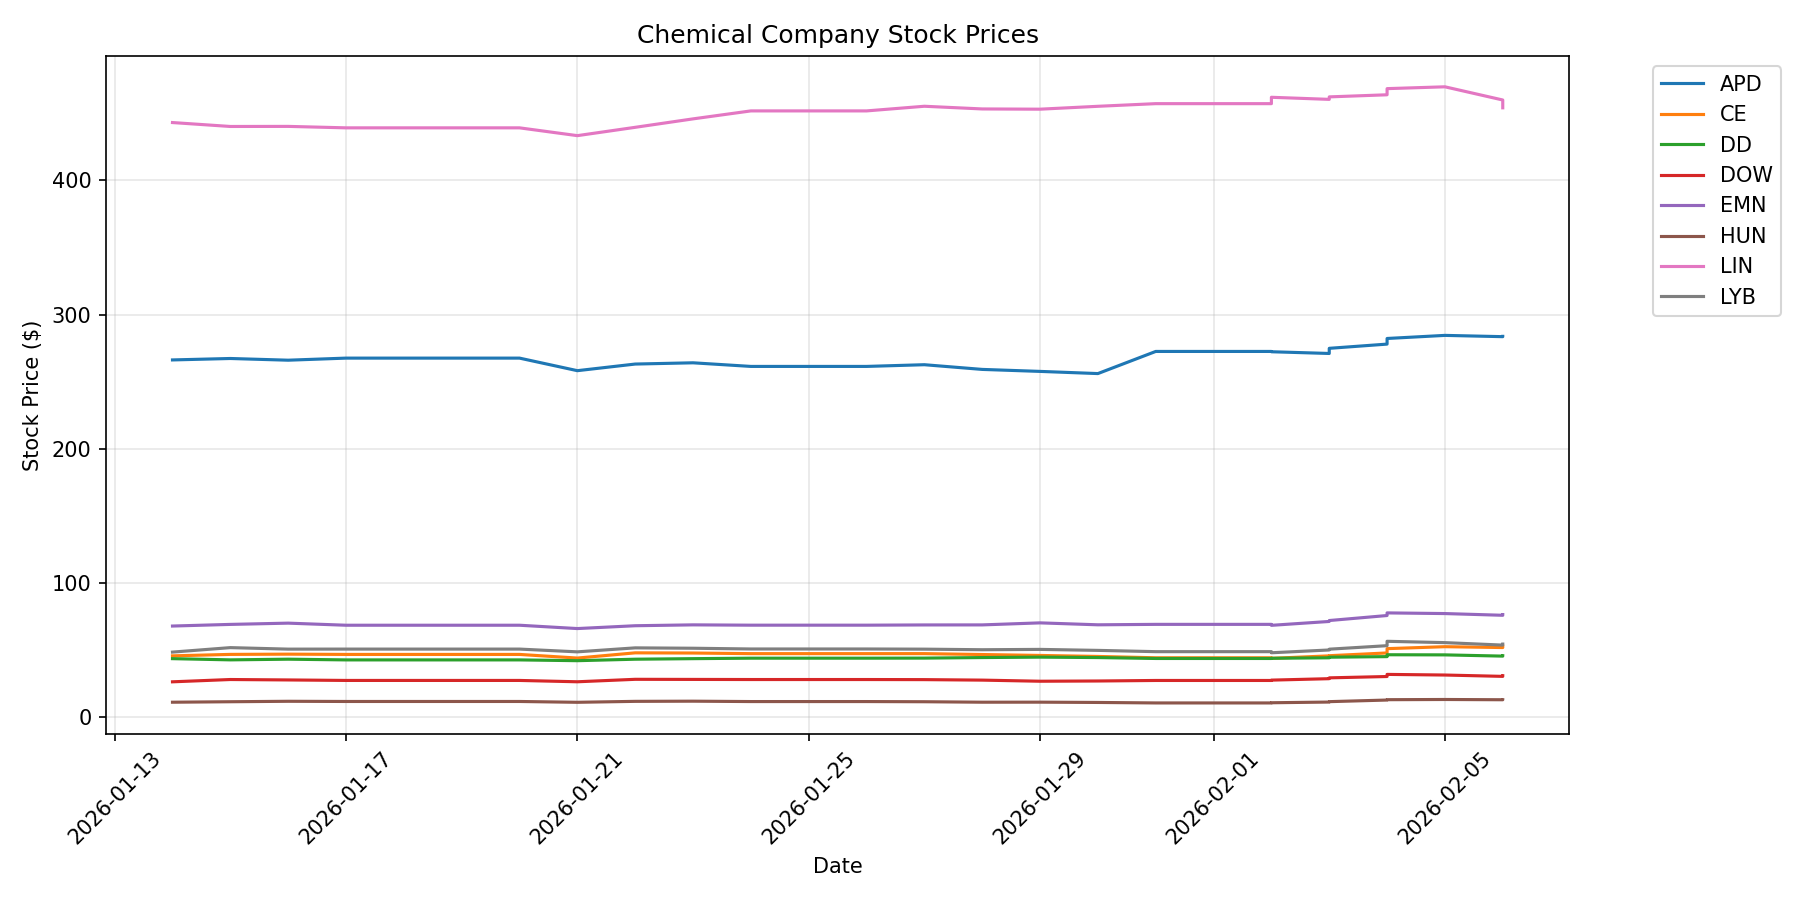
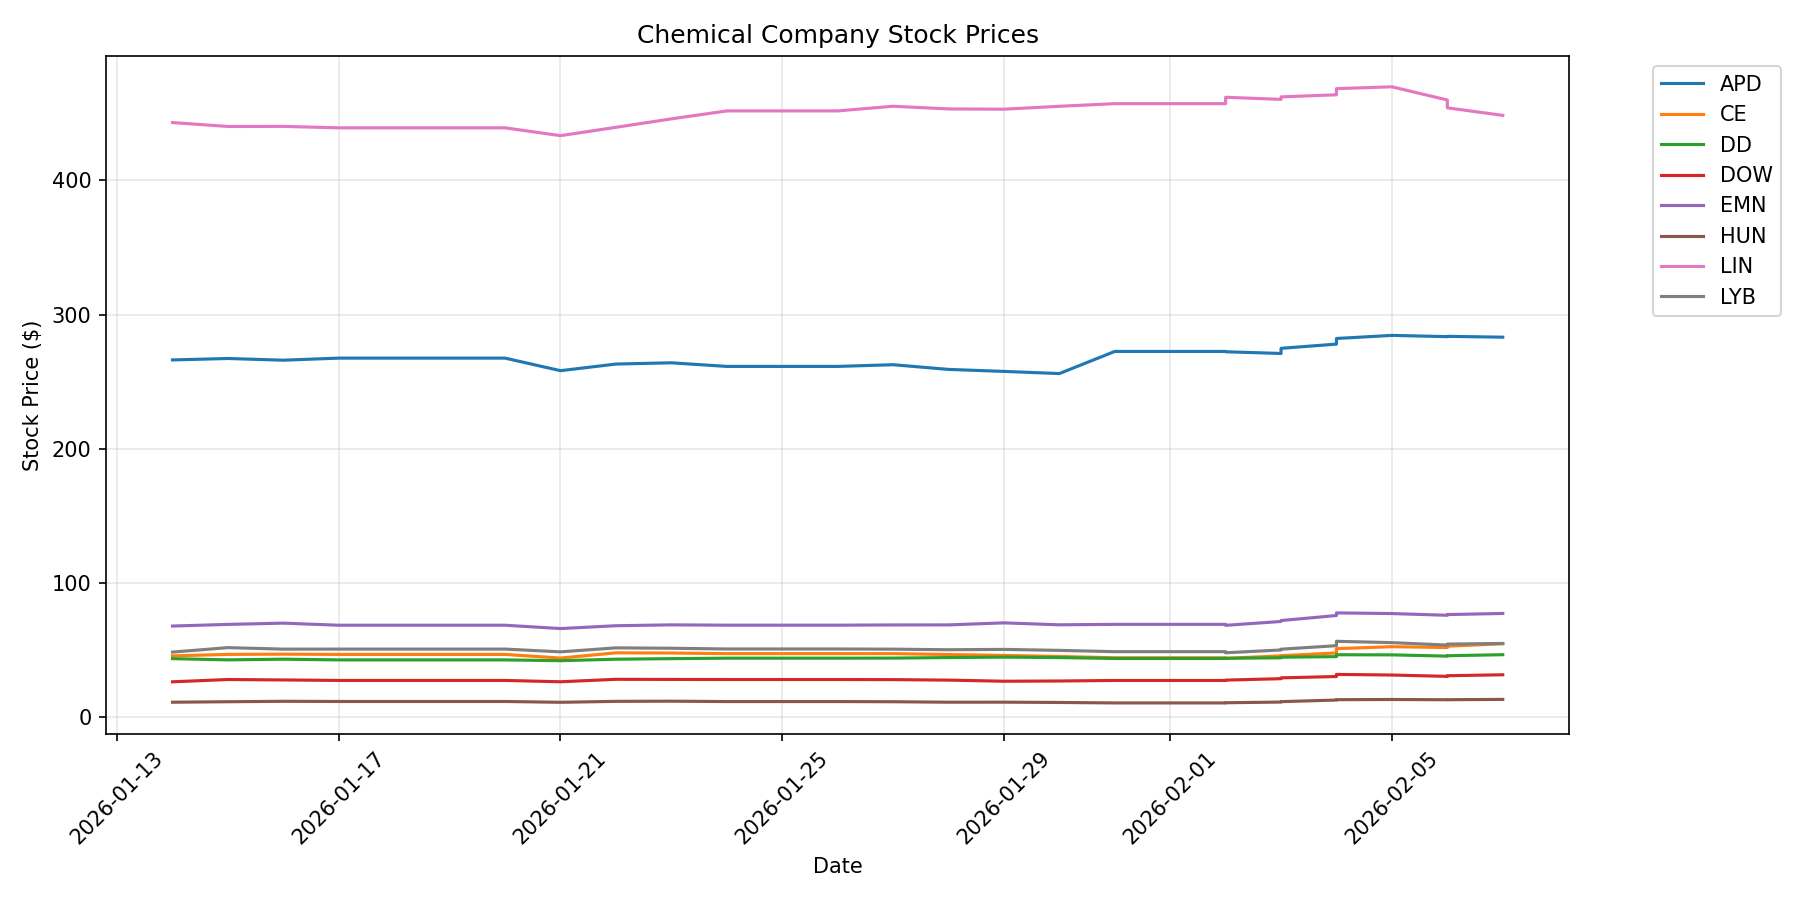
Daily price update: 2026-02-07

diff --git a/README.md b/README.md
@@ -2,29 +2,29 @@
 
 Automated daily tracking of chemical commodity prices and chemical company stocks.
 
-## Latest Prices (Updated: 2026-02-06)
+## Latest Prices (Updated: 2026-02-07)
 
 ### Energy Commodities
 
 | Commodity | Price | Change (24h) | Unit |
 |-----------|-------|--------------|------|
-| WTI Crude Oil | $62.71 | -0.58 (-0.92%) | $/barrel |
-| Brent Crude Oil | $67.04 | -0.51 (-0.75%) | $/barrel |
-| Natural Gas | $3.54 | +0.03 (+0.85%) | $/MMBtu |
-| Heating Oil | $2.37 | -0.02 (-0.89%) | $/gallon |
+| WTI Crude Oil | $63.55 | +0.26 (+0.41%) | $/barrel |
+| Brent Crude Oil | $68.05 | +0.50 (+0.74%) | $/barrel |
+| Natural Gas | $3.42 | -0.09 (-2.48%) | $/MMBtu |
+| Heating Oil | $2.41 | +0.02 (+0.84%) | $/gallon |
 
 ### Chemical Company Stocks
 
 | Company | Ticker | Price | Change (24h) |
 |---------|--------|-------|--------------|
-| Dow Inc. | DOW | $31.09 | +0.49 (+1.60%) |
-| LyondellBasell | LYB | $54.64 | +0.76 (+1.41%) |
-| DuPont | DD | $45.97 | +0.29 (+0.63%) |
-| Air Products | APD | $283.73 | +0.23 (+0.08%) |
-| Linde | LIN | $453.86 | -5.83 (-1.27%) |
-| Eastman Chemical | EMN | $76.61 | +0.53 (+0.70%) |
-| Celanese | CE | $53.08 | +1.02 (+1.96%) |
-| Huntsman | HUN | $13.22 | +0.02 (+0.11%) |
+| Dow Inc. | DOW | $31.78 | +1.18 (+3.86%) |
+| LyondellBasell | LYB | $55.10 | +1.22 (+2.26%) |
+| DuPont | DD | $46.73 | +1.05 (+2.30%) |
+| Air Products | APD | $283.12 | -0.38 (-0.13%) |
+| Linde | LIN | $448.24 | -11.45 (-2.49%) |
+| Eastman Chemical | EMN | $77.43 | +1.35 (+1.77%) |
+| Celanese | CE | $54.88 | +2.82 (+5.42%) |
+| Huntsman | HUN | $13.46 | +0.26 (+1.97%) |
 
 ## Data Sources
 

diff --git a/logs/update_log.md b/logs/update_log.md
@@ -51,3 +51,4 @@ Daily updates to the chemical engineering data repository.
 - **2026-02-05 14:37:46**: Updated 4 energy prices, 8 stocks, 0 FRED series
 - **2026-02-06 00:31:04**: Updated 4 energy prices, 8 stocks, 0 FRED series
 - **2026-02-06 14:35:01**: Updated 4 energy prices, 8 stocks, 0 FRED series
+- **2026-02-07 00:34:03**: Updated 4 energy prices, 8 stocks, 0 FRED series
